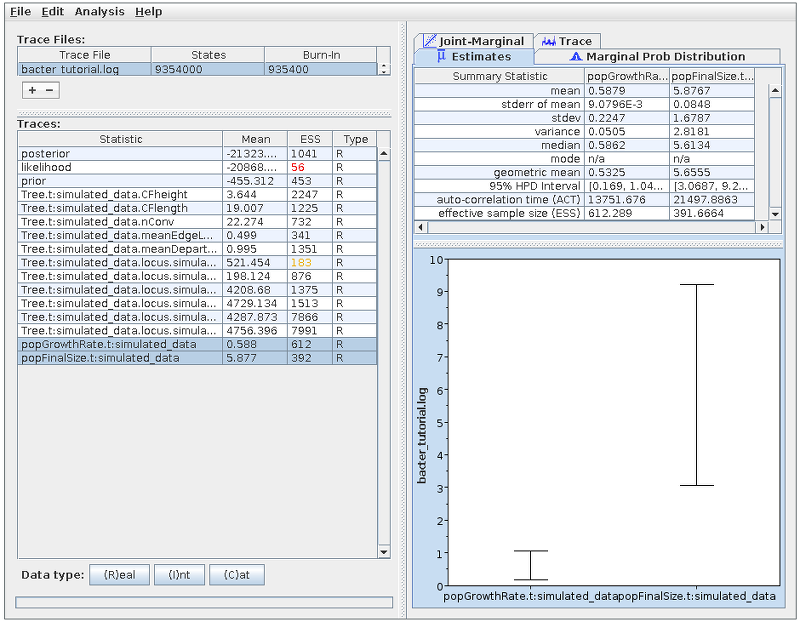
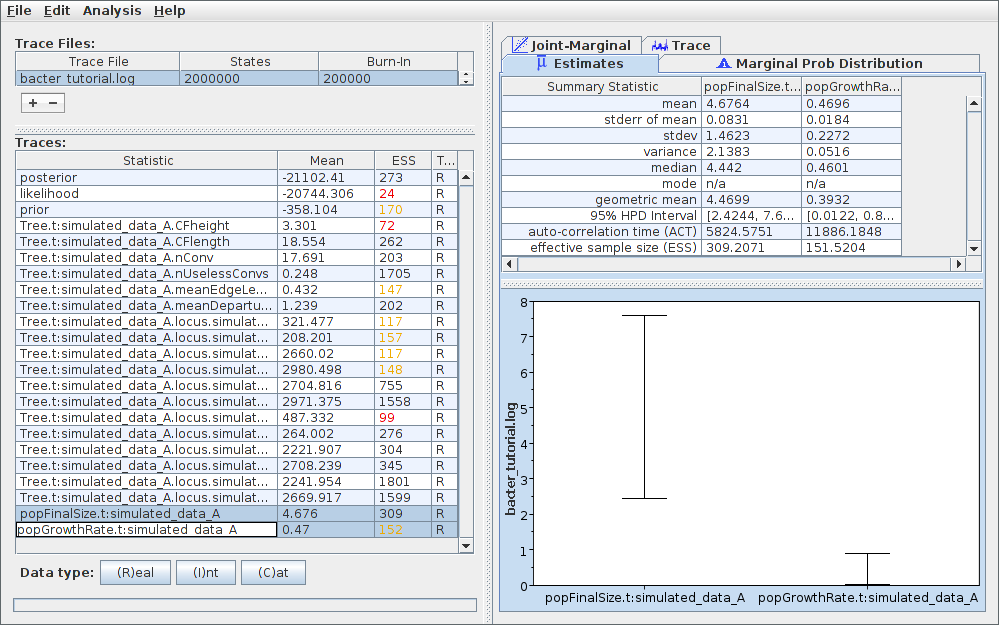
Updating tutorial analysis results.

diff --git a/doc/basic_tutorial.rst b/doc/basic_tutorial.rst
@@ -89,7 +89,9 @@ The priors panel should now look similar to the following:
 
 .. image:: images/priors.png
 
-Finally, switch to the MCMC panel and change the chain length to 2000000.
+Finally, switch to the MCMC panel and change the chain length to 2000000. This
+is almost certainly far too short for a production run, but means that the
+example analysis will complete relatively quickly.
 
 Once your analysis is set up, select File->Save, navigate to the directory you
 wish the analysis XML to be written to, give it a sensible file name (for
@@ -106,7 +108,7 @@ Run the analysis just as you would any other BEAST 2 analysis.  That is,
 
 Once BEAST is running, you should see output periodically printed to standard
 out (if you're running BEAST from a terminal emulator) or the output window.
-The analysis we've set up should take just under an hour to complete on a
+The analysis we've set up should take around half an hour to complete on a
 modern computer.
 
 Analyzing the results
@@ -130,9 +132,10 @@ corresponding inferred parameters:
 
 .. image:: images/tracer.png
 
-Note that the ESS for the likelihood is still quite small.  This indicates that
-the chain should probably be run for a while longer before the results are
-considered completely trustworthy.
+Note that the ESS for many parameters, the likelihood and the clonal frame height
+(Tree.t:simulated_data_A.CFheight) is still very small.  This indicates that
+the chain should be run for a lot longer before the results are
+for the results to be considered trustworthy.
 
 Viewing sampled ARGs
 --------------------
